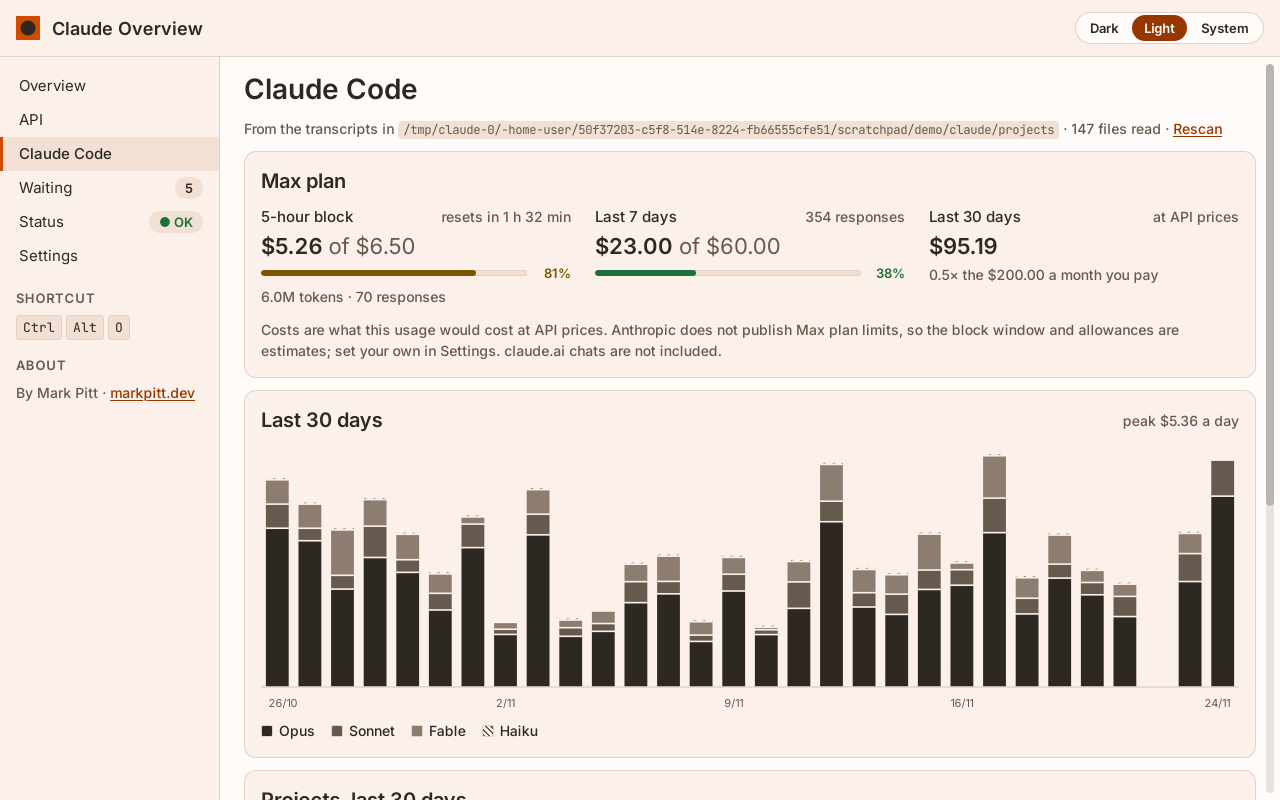
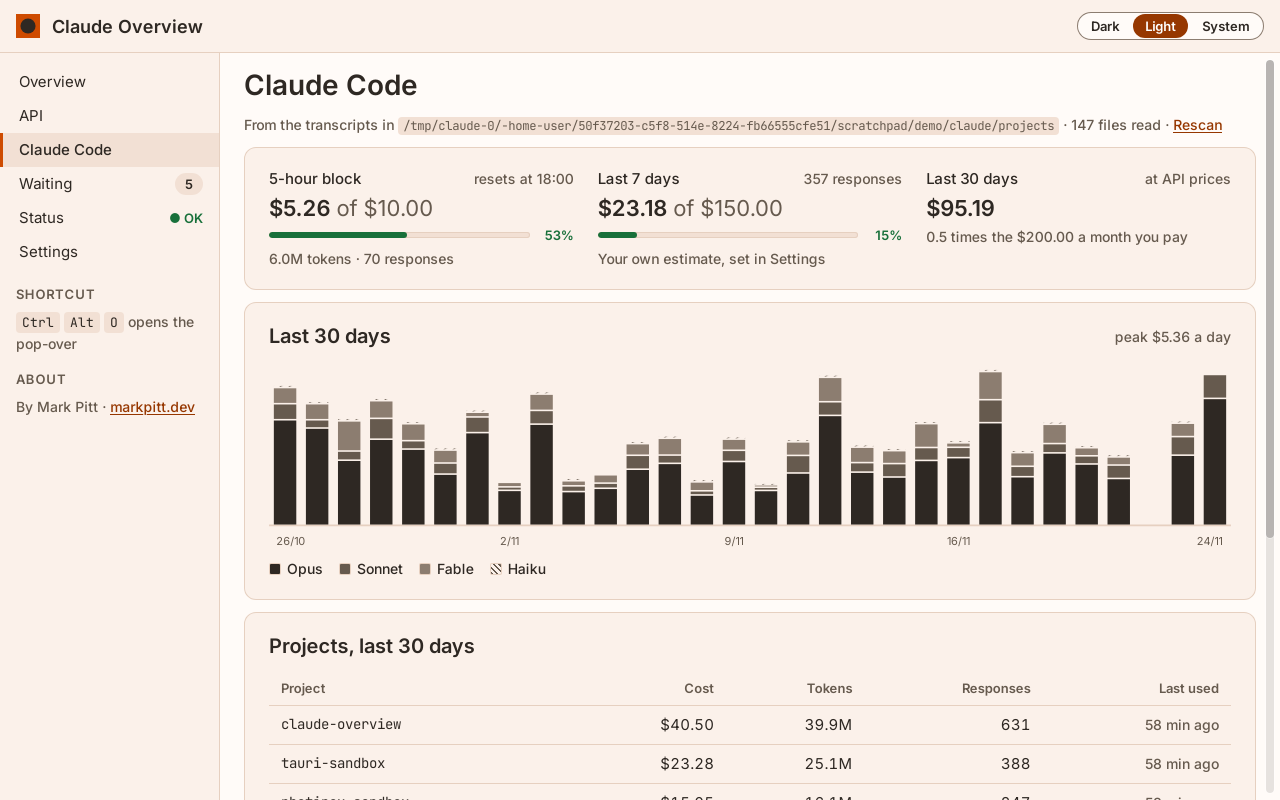
Match the brand reference renders
- Status banner: sentence-case headline with status.claude.com beside it.
- Header pill group: 28px tall with a border-control edge.
- Sidebar: Status reads "● OK" without a pill; the shortcut caps are
  followed by "opens the pop-over".
- Cards: 20px by 24px padding. Max plan card shows the week's responses;
  API credit shows "resets in N days, on 17/12" and "Forecast at 17/12"
  with the burn rate on the right.
- Claude Code page: the folder shortened to ~, the plan card without a
  title and with "resets at 14:00", "Your own estimate, set in Settings"
  and "1.8 times …"; the cost note moves to the log reader card; a
  shorter chart; padded table cells.
- Pop-over: no dividers between items, no "left" line or reset date,
  roomier sections.
- Screenshots re-taken in dark and light.

Claude-Session: https://claude.ai/code/session_014G3SJ1So6iab5Hf1zywFni

diff --git a/src/styles.css b/src/styles.css
@@ -137,12 +137,12 @@ input[type="checkbox"] { width: 16px; height: 16px; margin: 3px 0 0; accent-colo
 .pill-group {
   display: inline-flex;
   gap: 2px;
-  padding: 2px;
-  border: 1px solid var(--border-subtle);
+  padding: 1px;
+  border: 1px solid var(--border-control);
   border-radius: var(--radius-full);
   background: var(--surface-body);
 }
-.pill-group .pill { border: none; border-radius: var(--radius-full); padding: var(--space-1) var(--space-3); }
+.pill-group .pill { border: none; border-radius: var(--radius-full); padding: 3px var(--space-3); }
 .pill-group .pill.active { background: var(--accent-text); color: var(--on-accent-text); }
 
 /* ---- Chips ---- */
@@ -212,8 +212,9 @@ input[type="checkbox"] { width: 16px; height: 16px; margin: 3px 0 0; accent-colo
   margin: var(--space-4) 0 var(--space-2);
 }
 .sidebar-foot .section-label:first-child { margin-top: 0; }
-.keys { display: flex; flex-wrap: wrap; gap: var(--space-1); }
-.keys code { font-size: 13px; padding: 2px 6px; border: 1px solid var(--border-subtle); }
+.keys .caps { display: inline-flex; gap: var(--space-1); }
+.keys code { font-size: 13px; padding: 1px 6px; color: var(--ink); }
+.tab-status { font: var(--type-ui-label); white-space: nowrap; }
 
 .content { flex: 1; min-width: 0; overflow-y: auto; padding: var(--space-4) var(--space-6) var(--space-6); }
 .stack { display: flex; flex-direction: column; gap: var(--space-3); }
@@ -224,7 +225,7 @@ input[type="checkbox"] { width: 16px; height: 16px; margin: 3px 0 0; accent-colo
   background: var(--surface-card);
   border: 1px solid var(--border-subtle);
   border-radius: var(--radius-md);
-  padding: var(--space-4);
+  padding: 20px var(--space-6);
 }
 .card-head {
   display: flex;
@@ -248,6 +249,7 @@ input[type="checkbox"] { width: 16px; height: 16px; margin: 3px 0 0; accent-colo
 }
 .status-text { display: flex; flex-direction: column; flex: 1; min-width: 0; }
 .status-text strong { font-weight: 600; }
+.status-text .source { margin-left: var(--space-2); }
 .status-banner.compact { padding: var(--space-3); align-items: flex-start; }
 .status-banner.compact .status-text { align-items: flex-start; gap: var(--space-1); }
 .status-banner.compact .chip { white-space: normal; }
@@ -346,10 +348,8 @@ input[type="checkbox"] { width: 16px; height: 16px; margin: 3px 0 0; accent-colo
 
 /* ---- Tables ---- */
 .table { width: 100%; border-collapse: collapse; }
-.table th { text-align: left; font: var(--type-ui-label); color: var(--muted); padding: var(--space-1) var(--space-2); }
-.table td { border-top: 1px solid var(--border-subtle); padding: var(--space-2); }
-.table th:first-child, .table td:first-child { padding-left: 0; }
-.table th:last-child, .table td:last-child { padding-right: 0; }
+.table th { text-align: left; font: var(--type-ui-label); color: var(--muted); padding: var(--space-2) var(--space-3); }
+.table td { border-top: 1px solid var(--border-subtle); padding: var(--space-2) var(--space-3); }
 .table .num { text-align: right; white-space: nowrap; }
 .table td.mono { overflow-wrap: anywhere; }
 
@@ -389,8 +389,10 @@ label.check { display: flex; flex-direction: row; align-items: flex-start; gap: 
 .popover-top { display: flex; justify-content: space-between; align-items: center; }
 .popover .lockup { gap: var(--space-2); }
 .popover .lockup-name { font-size: 16px; }
-.popover .section-label { margin: var(--space-2) 0 var(--space-1); }
-.popover .figure { font-size: 18px; }
+.popover .section-label { margin: var(--space-3) 0 var(--space-1); }
+.popover .figure { font-size: 18px; margin: 6px 0; }
 .popover .waiting li { grid-template-columns: 104px minmax(0, 1fr) auto; padding: 6px 0; }
 .popover .waiting li:first-child { padding-top: 0; }
-.popover .items.compact .item + .item { margin-top: var(--space-2); padding-top: var(--space-2); }
+.popover .items.compact .item + .item { border-top: none; margin-top: var(--space-3); padding-top: 0; }
+.popover .optional { display: none; }
+.popover .item-head { margin-bottom: var(--space-1); }

diff --git a/src/components/PlanSummary.tsx b/src/components/PlanSummary.tsx
@@ -5,6 +5,7 @@ import { Meter } from "./Meter";
 
 /** The current 5-hour block, the last 7 days and the last 30 days, against your own limits. */
 export function PlanSummary({ cc, now, compact = false }: { cc: CcSummary; now: number; compact?: boolean }) {
+  // The Claude Code page gives the reset as a clock time; the cards count down.
   const { settings } = cc;
   const block = cc.currentBlock;
   const blockShare = block ? share(block.costUsd, settings.blockLimitUsd) : null;
@@ -17,9 +18,15 @@ export function PlanSummary({ cc, now, compact = false }: { cc: CcSummary; now: 
         <div className="item-head">
           <span>5-hour block</span>
           {block ? (
-            <span className="meta" title={`Resets at ${clockTime(block.endMs)}`}>
-              resets in {countdown(block.endMs, now)}
-            </span>
+            compact ? (
+              <span className="meta" title={`Resets at ${clockTime(block.endMs)}`}>
+                resets in {countdown(block.endMs, now)}
+              </span>
+            ) : (
+              <span className="meta" title={`In ${countdown(block.endMs, now)}`}>
+                resets at {clockTime(block.endMs)}
+              </span>
+            )
           ) : (
             <span className="meta">no block running</span>
           )}
@@ -50,13 +57,14 @@ export function PlanSummary({ cc, now, compact = false }: { cc: CcSummary; now: 
       <div className="item">
         <div className="item-head">
           <span>Last 7 days</span>
-          {!compact && <span className="meta">{formatCount(cc.week.messages)} responses</span>}
+          <span className="meta optional">{formatCount(cc.week.messages)} responses</span>
         </div>
         <div className="figure">
           {formatUsd(cc.week.costUsd)}
           {settings.weekLimitUsd ? <span className="of"> of {formatUsd(settings.weekLimitUsd)}</span> : null}
         </div>
         {weekShare !== null && <Meter value={weekShare} label="Share of the weekly allowance used" />}
+        {!compact && weekShare !== null && <div className="meta detail">Your own estimate, set in Settings</div>}
       </div>
 
       {!compact && (
@@ -68,7 +76,7 @@ export function PlanSummary({ cc, now, compact = false }: { cc: CcSummary; now: 
           <div className="figure">{formatUsd(month)}</div>
           {settings.planPriceUsd ? (
             <div className="meta detail">
-              {(month / settings.planPriceUsd).toFixed(1)}× the {formatUsd(settings.planPriceUsd)} a month you pay
+              {(month / settings.planPriceUsd).toFixed(1)} times the {formatUsd(settings.planPriceUsd)} a month you pay
             </div>
           ) : null}
         </div>

diff --git a/src/views/ClaudeCodeView.tsx b/src/views/ClaudeCodeView.tsx
@@ -1,7 +1,7 @@
 import { useApp } from "../store";
 import { useNow } from "../lib/useNow";
 import { byLocalDay, byProject, DAY_MS, formatTokens, formatUsd } from "../lib/usage";
-import { formatCount, relativeTime } from "../lib/format";
+import { formatCount, relativeTime, tildePath } from "../lib/format";
 import { PlanSummary } from "../components/PlanSummary";
 import { DailyChart, peakUsd } from "../components/DailyChart";
 import { CardHead, TabLink } from "../components/CardHead";
@@ -24,18 +24,13 @@ export function ClaudeCodeView() {
   return (
     <div className="stack">
       <p className="page-meta">
-        From the transcripts in <code>{cc.folder ?? "none"}</code>
+        From the transcripts in <code>{cc.folder ? tildePath(cc.folder) : "none"}</code>
         {!cc.folderExists && <span className="error"> (not found)</span>} · {formatCount(cc.files)} files read ·{" "}
         {scanning ? <span>Scanning…</span> : <TabLink onClick={() => void rescan()}>Rescan</TabLink>}
       </p>
 
-      <section className="card">
-        <CardHead title="Max plan" />
+      <section className="card" aria-label="Max plan">
         <PlanSummary cc={cc} now={now} />
-        <p className="meta note">
-          Costs are what this usage would cost at API prices. Anthropic does not publish Max plan limits, so the
-          block window and allowances are estimates; set your own in Settings. claude.ai chats are not included.
-        </p>
       </section>
 
       <section className="card">
@@ -96,6 +91,10 @@ export function ClaudeCodeView() {
           )}
         </dl>
         {cc.error && <p className="error">{cc.error}</p>}
+        <p className="meta note">
+          Costs are what this usage would cost at API prices. Anthropic does not publish Max plan limits, so the
+          block window and allowances are estimates; set your own in Settings. claude.ai chats are not included.
+        </p>
       </section>
     </div>
   );

diff --git a/src/views/MainWindow.tsx b/src/views/MainWindow.tsx
@@ -2,7 +2,7 @@ import { useEffect, useState } from "react";
 import { invoke } from "@tauri-apps/api/core";
 import { useApp } from "../store";
 import { Lockup } from "../components/Brand";
-import { Chip, LevelChip } from "../components/Chip";
+import { Chip, levelSymbol, levelTone } from "../components/Chip";
 import { Link } from "../components/Link";
 import { ThemeSwitch } from "../components/ThemeSwitch";
 import { OverviewView } from "./OverviewView";
@@ -43,10 +43,13 @@ function ShortcutKeys({ tab }: { tab: Tab }) {
   if (!accel) return <p className="meta">Off</p>;
   const keys = mac ? [...shown] : shown.split("+");
   return (
-    <p className="keys" aria-label={shown}>
-      {keys.map((k, i) => (
-        <code key={i}>{k}</code>
-      ))}
+    <p className="keys meta">
+      <span className="caps" aria-label={shown}>
+        {keys.map((k, i) => (
+          <code key={i}>{k}</code>
+        ))}
+      </span>{" "}
+      opens the pop-over
     </p>
   );
 }
@@ -74,7 +77,12 @@ export function MainWindow() {
               onClick={() => setTab(t.id)}
             >
               {t.label}
-              {t.id === "status" && <LevelChip level={level}>{SHORT_LEVEL[level]}</LevelChip>}
+              {t.id === "status" && (
+                <span className={`tab-status chip-${levelTone(level)}`}>
+                  <span aria-hidden="true">{levelSymbol(level)} </span>
+                  {SHORT_LEVEL[level]}
+                </span>
+              )}
               {t.id === "waiting" && waitingTotal > 0 && <Chip>{formatCount(waitingTotal)}</Chip>}
               {t.id === "settings" && updateReady && <Chip tone="success">Update</Chip>}
             </button>

diff --git a/src/components/CreditSummary.tsx b/src/components/CreditSummary.tsx
@@ -1,5 +1,6 @@
 import type { ApiSnapshot } from "../types";
 import { daysUntil, utcDate } from "../lib/credit";
+import { dayMonth } from "../lib/format";
 import { clockTime, formatUsd, share } from "../lib/usage";
 import { Chip } from "./Chip";
 import { Meter } from "./Meter";
@@ -56,6 +57,7 @@ export function CreditSummary({
           <span>This month</span>
           <span className="meta">
             resets in {reset} day{reset === 1 ? "" : "s"}
+            <span className="optional">, on {dayMonth(s.periodEndMs, "UTC")}</span>
           </span>
         </div>
         <div className="figure">
@@ -63,7 +65,7 @@ export function CreditSummary({
           <span className="of"> of {formatUsd(s.allowanceUsd)}</span>
         </div>
         <Meter value={used} label="Share of the API credit used" />
-        <div className="meta detail">
+        <div className="meta detail optional">
           {leftText}
           {compact && s.refreshedMs ? ` · data refreshed ${clockTime(s.refreshedMs)}` : ""}
         </div>
@@ -84,8 +86,8 @@ export function CreditSummary({
       {showForecast && (
         <div className="item">
           <div className="item-head">
-            <span>Forecast</span>
-            <span className="meta">at {utcDate(s.periodEndMs)}</span>
+            <span>Forecast at {dayMonth(s.periodEndMs, "UTC")}</span>
+            {compact && <span className="meta">{formatUsd(s.burnPerDayUsd)} a day</span>}
           </div>
           <div className="figure">{formatUsd(s.forecastUsd)}</div>
           <div className="detail">{runsOut ?? <span className="meta">Within the credit at this rate</span>}</div>

diff --git a/src/components/StatusHeader.tsx b/src/components/StatusHeader.tsx
@@ -1,6 +1,6 @@
 import { useEffect, useState } from "react";
 import { useApp } from "../store";
-import { levelLabel, relativeTime } from "../lib/format";
+import { levelLabel, relativeTime, sentenceCase } from "../lib/format";
 import { LevelChip } from "./Chip";
 
 /** The status banner: overall state, last check, refresh button. The pop-over puts the sentence in the chip. */
@@ -16,7 +16,7 @@ export function StatusHeader({ compact = false }: { compact?: boolean }) {
   }, []);
 
   const level = status?.level ?? "unknown";
-  const sentence = status?.description ?? "Checking status…";
+  const sentence = status?.description ? sentenceCase(status.description) : "Checking status…";
   const checked = status?.error
     ? status.fetchedAtMs
       ? `Couldn't refresh, showing data from ${relativeTime(status.fetchedAtMs, now)}`
@@ -34,7 +34,9 @@ export function StatusHeader({ compact = false }: { compact?: boolean }) {
         <>
           <LevelChip level={level}>{levelLabel(level)}</LevelChip>
           <div className="status-text">
-            <strong>{sentence}</strong>
+            <span>
+              <strong>{sentence}</strong> <span className="meta source">status.claude.com</span>
+            </span>
             <span className="meta">{checked}</span>
           </div>
         </>

diff --git a/src/lib/format.ts b/src/lib/format.ts
@@ -79,9 +79,19 @@ export function shortDate(ms: number, timeZone?: string): string {
   return `${part("weekday")} ${part("day")} ${part("month")}`;
 }
 
-/** "17/12" for a local day. */
-export function dayMonth(ms: number): string {
-  return new Date(ms).toLocaleDateString("en-GB", { day: "numeric", month: "2-digit" });
+/** "17/12" for a day, local unless a time zone is given. */
+export function dayMonth(ms: number, timeZone?: string): string {
+  return new Date(ms).toLocaleDateString("en-GB", { day: "numeric", month: "2-digit", timeZone });
+}
+
+/** A home folder shortened to "~": "/home/mark/.claude/projects" reads "~/.claude/projects". */
+export function tildePath(path: string): string {
+  return path.replace(/^(\/home\/[^/]+|\/Users\/[^/]+|[A-Za-z]:\\Users\\[^\\]+)(?=[/\\]|$)/, "~");
+}
+
+/** Statuspage's Title Case headlines in sentence case: "All Systems Operational" reads "All systems operational". */
+export function sentenceCase(text: string): string {
+  return /^[A-Z][a-z]+( [A-Z][a-z]+)+$/.test(text) ? text.charAt(0) + text.slice(1).toLowerCase() : text;
 }
 
 /** "1,360": a count with thousands separators. */

diff --git a/src/lib/format.test.ts b/src/lib/format.test.ts
@@ -55,3 +55,17 @@ describe("short dates", () => {
     expect(shortDate(Date.UTC(2026, 11, 8, 12), "UTC")).toBe("Tue 8 Dec");
   });
 });
+
+describe("display helpers", () => {
+  it("shortens a home folder to ~", async () => {
+    const { tildePath } = await import("./format");
+    expect(tildePath("/home/mark/.claude/projects")).toBe("~/.claude/projects");
+    expect(tildePath("C:\\Users\\Mark\\.claude\\projects")).toBe("~\\.claude\\projects");
+    expect(tildePath("/srv/claude/projects")).toBe("/srv/claude/projects");
+  });
+  it("puts Statuspage headlines in sentence case", async () => {
+    const { sentenceCase } = await import("./format");
+    expect(sentenceCase("All Systems Operational")).toBe("All systems operational");
+    expect(sentenceCase("Elevated errors on API")).toBe("Elevated errors on API");
+  });
+});

diff --git a/src/components/DailyChart.tsx b/src/components/DailyChart.tsx
@@ -4,7 +4,7 @@ import { formatUsd } from "../lib/usage";
 import { dayMonth, shortDate } from "../lib/format";
 
 const W = 600;
-const H = 150;
+const H = 104;
 const PAD_BOTTOM = 2;
 /** Bottom to top: a tonal ramp from ink down, never a hue per series. */
 const ORDER = ["opus", "sonnet", "fable", "haiku", "mythos", "other"] as const;
